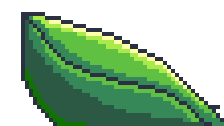
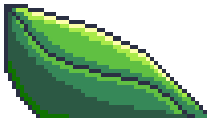
leafs

diff --git a/style.css b/style.css
@@ -148,3 +148,43 @@ body::after {
     transition-duration: 2.3s, 0.15s;
     transition-timing-function: ease;
 }
+
+@keyframes leftcomeup {
+    from {opacity: 0; transform: rotate(-30deg);}
+    to {opacity: 1; transform: rotate(0deg);}
+}
+#left-leaf {
+    position: absolute;
+    top: calc(((100vh - ((118 / 500) * 60vh)) / 2) + ((53 / 500) * 60vh));
+    left: calc(((100vw - ((207 / 500) * 60vh)) / 2) - (((217 - (207 / 2)) / 500) * 60vh));
+    width: calc((207 / 500) * 60vh);
+    z-index: 50;
+    content: url("assets/left-leaf.png");
+    opacity: 0;
+    transform-origin: right bottom;
+    animation-name: leftcomeup;
+    animation-duration: 5s;
+    animation-delay: 10s;
+    animation-timing-function: ease-out;
+    animation-fill-mode: forwards;
+}
+
+@keyframes rightcomeup {
+    from {opacity: 0; transform: rotate(30deg);}
+    to {opacity: 1; transform: rotate(0deg);}
+}
+#right-leaf {
+    position: absolute;
+    top: calc(((100vh - ((118 / 500) * 60vh)) / 2) + ((53 / 500) * 60vh));
+    left: calc(((100vw - ((208 / 500) * 60vh)) / 2) + (((218 - (208 / 2)) / 500) * 60vh));
+    width: calc((208 / 500) * 60vh);
+    z-index: 50;
+    content: url("assets/right-leaf.png");
+    opacity: 0;
+    transform-origin: left bottom;
+    animation-name: rightcomeup;
+    animation-duration: 5s;
+    animation-delay: 10s;
+    animation-timing-function: ease-out;
+    animation-fill-mode: forwards;
+}

diff --git a/mobile123.css b/mobile123.css
@@ -21,3 +21,15 @@
     left: calc(((100vw - ((77 / 500) * 45vh)) / 2) + (((100 + (77 / 2))/ 500) * 45vh));
 }
 
+#left-leaf {
+    top: calc(((100vh - ((118 / 500) * 45vh)) / 2) + ((53 / 500) * 45vh));
+    left: calc(((100vw - ((207 / 500) * 45vh)) / 2) - (((217 - (207 / 2)) / 500) * 45vh));
+    width: calc((207 / 500) * 45vh);
+}
+
+#right-leaf {
+    top: calc(((100vh - ((118 / 500) * 45vh)) / 2) + ((53 / 500) * 45vh));
+    left: calc(((100vw - ((208 / 500) * 45vh)) / 2) + (((218 - (208 / 2)) / 500) * 45vh));
+    width: calc((208 / 500) * 45vh);
+}
+

diff --git a/index.html b/index.html
@@ -18,6 +18,8 @@
         <img id="clouds" src="assets/clouds.png" alt="clouds on a blue background">
         </div>
         <div id="everland-sign"></div>
+        <img id="left-leaf">
+        <img id="right-leaf">
         <img id="shamrock">
     </div>
 </body>
